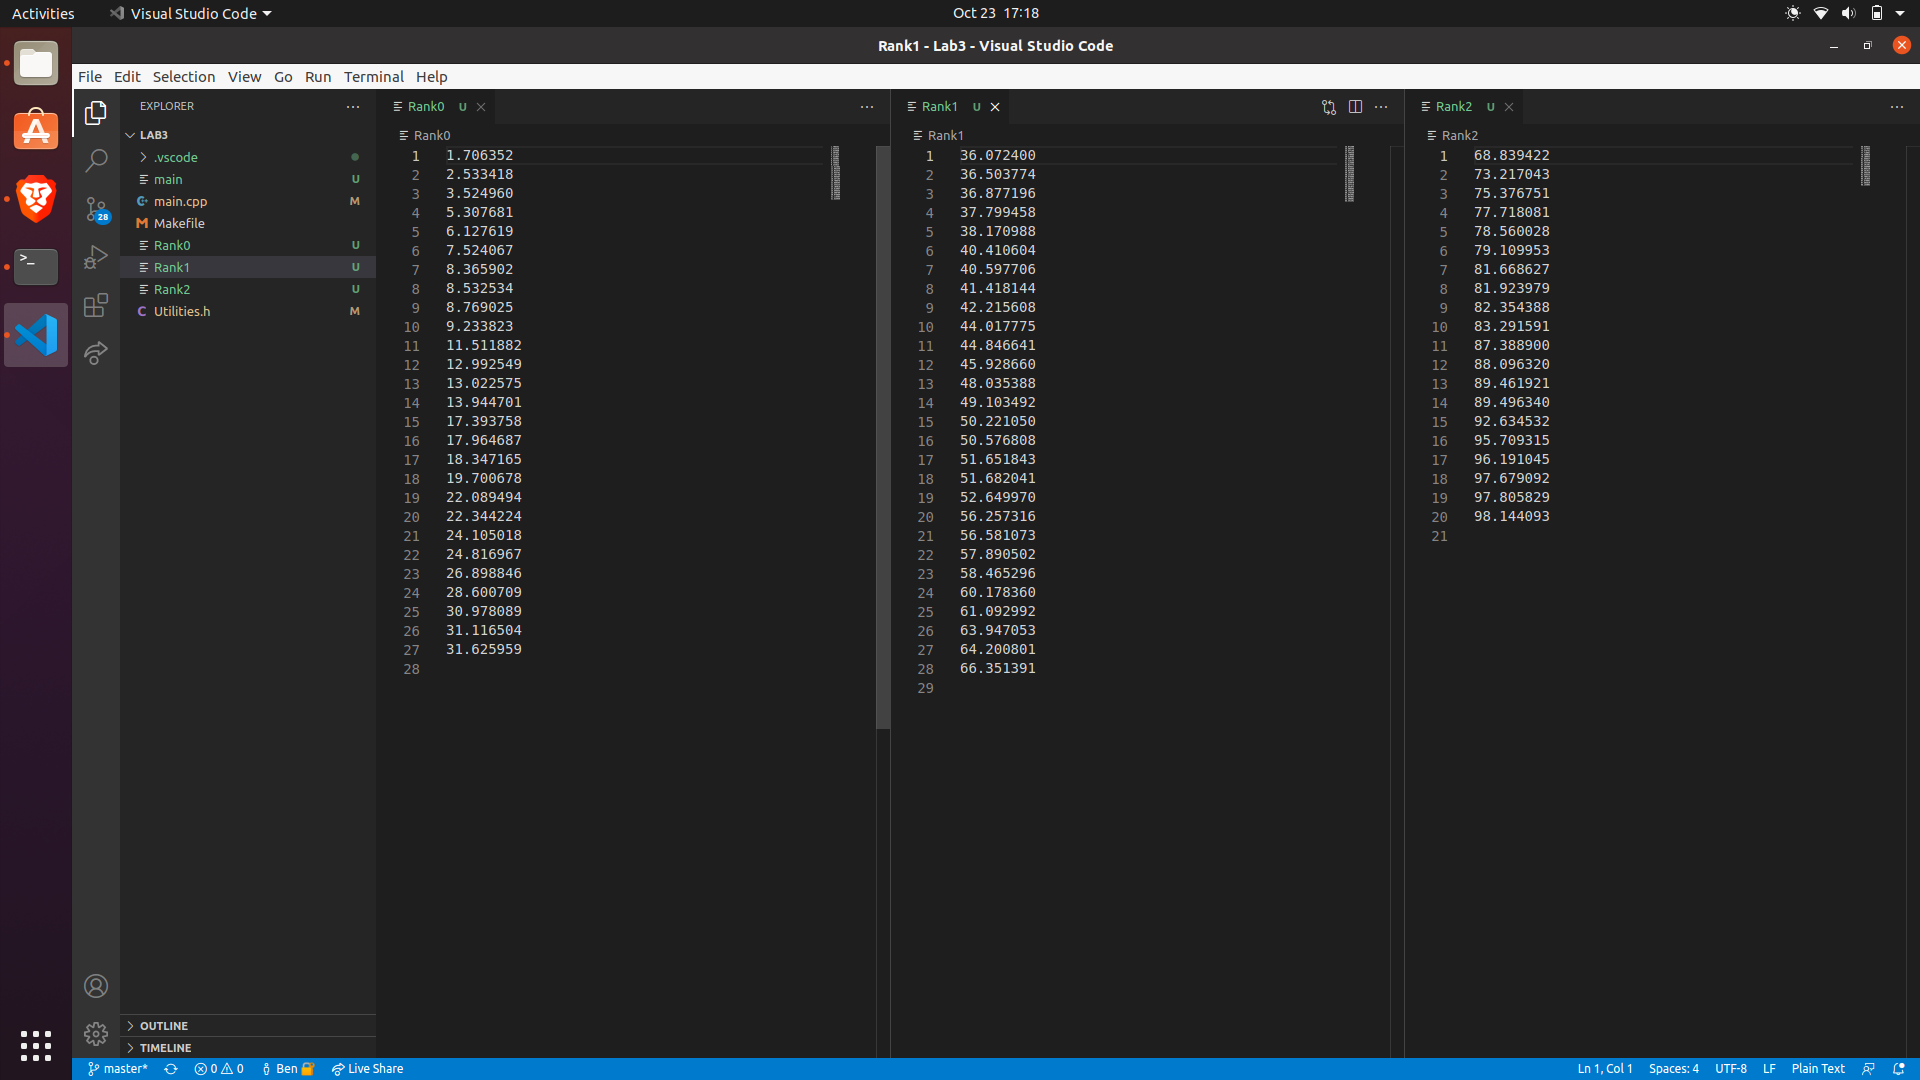
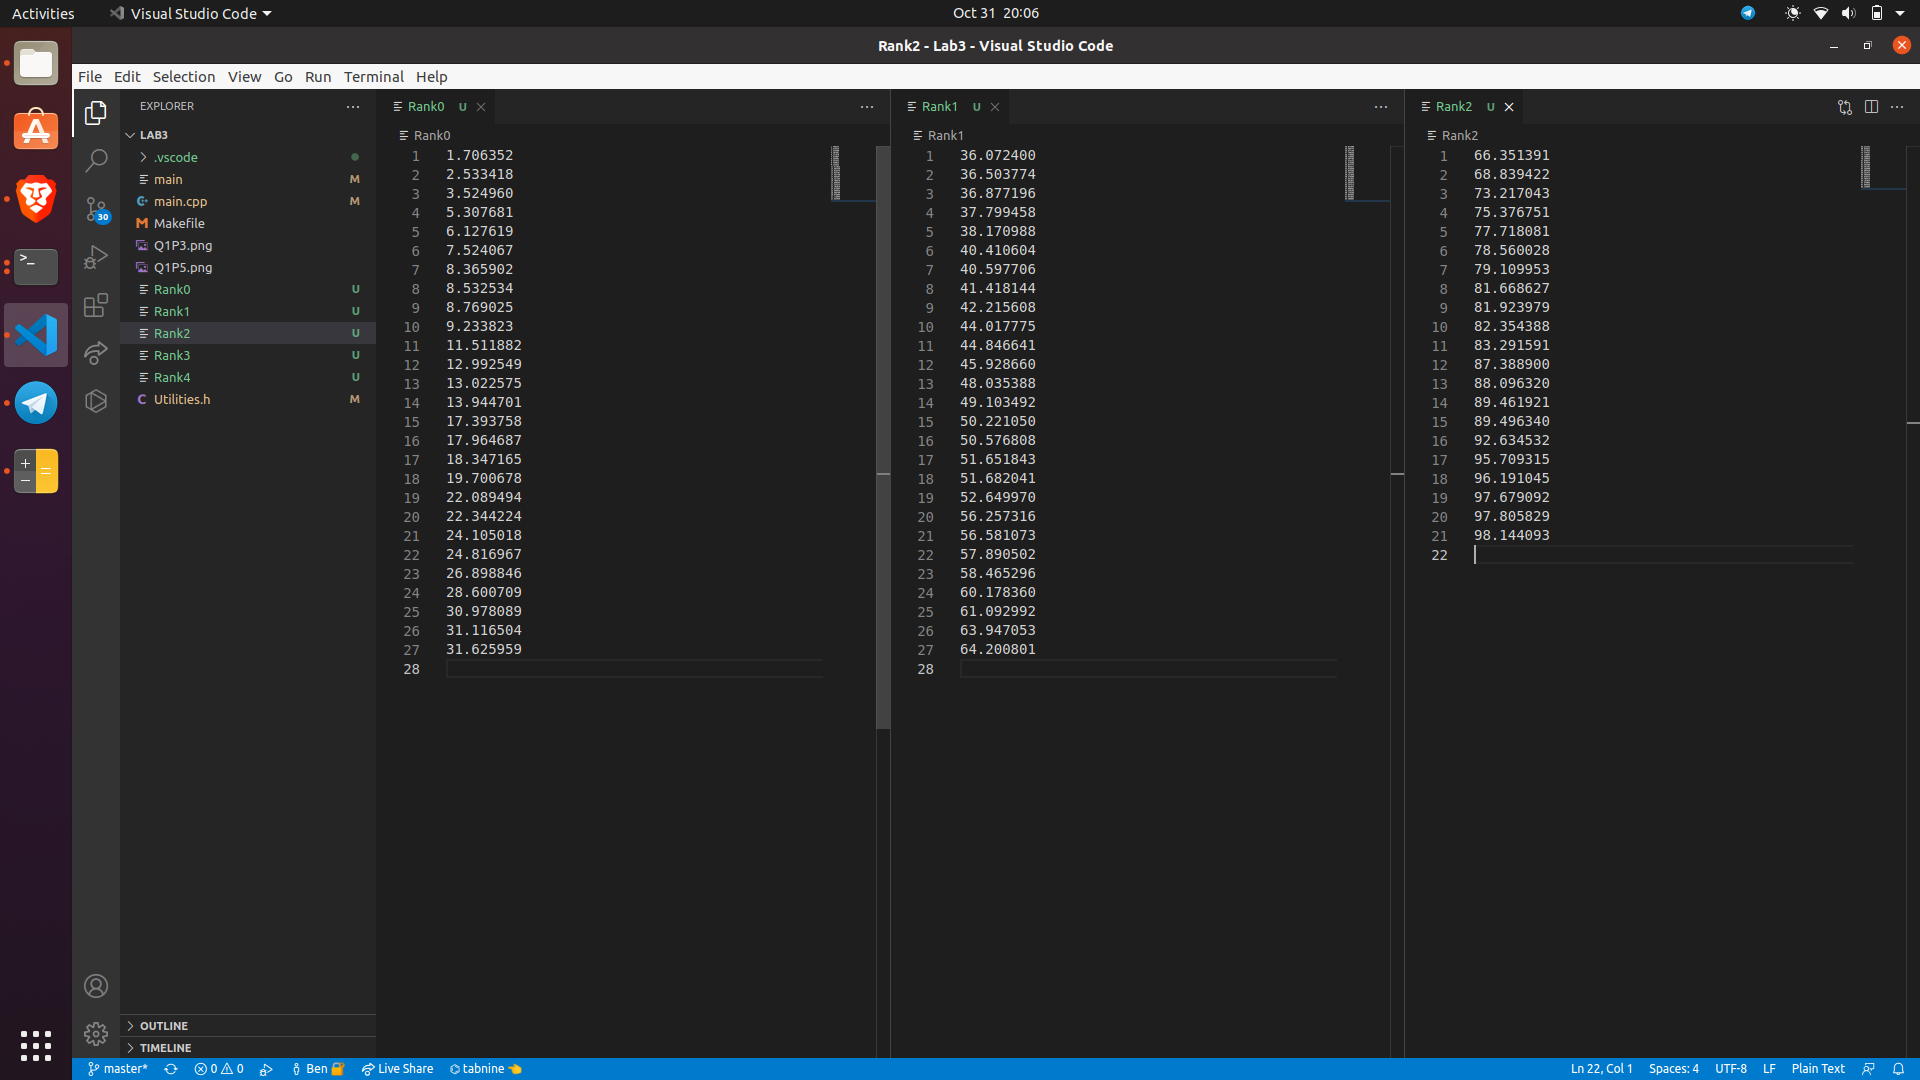
Fixed the boundaries that julian suggested

diff --git a/Lab3/main.cpp b/Lab3/main.cpp
@@ -16,20 +16,36 @@ void dumpVectorContents(string name, vector<double> vecToDump){
 }
 
 template<class T>
-vector<T> bucketSort(int a, int b, int rank, int p, vector<T> numsToSort){
+vector<T> bucketSort(double a, double b, int rank, int p, vector<T> numsToSort){
     vector<vector<T>> smallBuckets = vector<vector<T>>();
     vector<vector<T>> myBigBucket = vector<vector<T>>();
     for(int i = 0; i<p; i++){
         smallBuckets.push_back(vector<T>());
         
     }
+
     double delta = (b-a)/double(p);
     for(int i = 0; i<numsToSort.size(); i++){
         // the bucket to go into is
-        // floor(numsToSort[i] / delta)
-        smallBuckets[(int)floor(numsToSort[i]/delta)].push_back(numsToSort[i]);
-        
+        // i = (numberToSort-a)/delta
+        int index = (int)floor((numsToSort[i]-a)/delta);
+        if(numsToSort[i] == b){ // the math works out so that i equals p here which is out of bounds, so subtract 1
+            assert(index == p);
+            index--;
+        }
+        smallBuckets[index].push_back(numsToSort[i]);
+        /*
+        if((int)floor((-a+numsToSort[i])/delta)>=5){
+            cout<<numsToSort[i]<<" "<< delta << " " << a<<endl;
+            cout<<(-a+numsToSort[i])/(double)delta<<endl;
+            cout<<(int)floor((-a+numsToSort[i])/delta)<<endl;
+        }
+        //cout<<(int)floor((-a+numsToSort[i])/delta)<<endl;
+
+        smallBuckets[(int)floor((-a+numsToSort[i])/delta)].push_back(numsToSort[i]);
+        */
     }
+
     MPI_Alltoall_vecvecT(smallBuckets, myBigBucket);
 
     
@@ -130,7 +146,18 @@ int main(int argc, char** argv){
         
         randNums.push_back(randNum);
     }
-    vector<double> sortedList = bucketSort(a, b, rank, nproc, randNums);
+
+    // lets find the range of the data now
+
+    double localMax = *max_element(randNums.begin(), randNums.end());
+    double globalMax;
+    double localMin = *min_element(randNums.begin(), randNums.end());
+    double globalMin;
+    MPI_Allreduce(&localMax, &globalMax, 1, MPI_DOUBLE, MPI_MAX, MPI_COMM_WORLD);
+    MPI_Allreduce(&localMin, &globalMin, 1, MPI_DOUBLE, MPI_MIN, MPI_COMM_WORLD);
+
+
+    vector<double> sortedList = bucketSort(globalMin, globalMax, rank, nproc, randNums);
     dumpVectorContents("Rank" + to_string(rank), sortedList);
 
     if(rank == 0){

diff --git a/Lab3/Utilities.h b/Lab3/Utilities.h
@@ -30,11 +30,13 @@ void MPI_Alltoall_vecvecT(const std::vector<std::vector<T> >& data_to_send, std:
     
     assert(nproc == (int)data_to_send.size());
     
+    // allocate some space for some vectors well need
     std::vector<int> send_counts(nproc);
     std::vector<int> recv_counts(nproc);
     std::vector<int> send_displacements(nproc);
     std::vector<int> recv_displacements(nproc);
     
+    //compute how much to send and the displacement in bytes
     int total_send_count = 0; //in bytes
     for (unsigned int iproc = 0; iproc < nproc; iproc++)
     {
@@ -42,9 +44,10 @@ void MPI_Alltoall_vecvecT(const std::vector<std::vector<T> >& data_to_send, std:
         send_displacements[iproc] = total_send_count;
         total_send_count += send_counts[iproc];
     }
-    
+    // send each processor how much to expect from one another
     MPI_Alltoall(&send_counts[0],1,MPI_INT, &recv_counts[0], 1, MPI_INT, MPI_COMM_WORLD);
     
+    // compute the discplacements in bytes for how much data to receive
     int total_recv_count = 0;   //in bytes
     for (unsigned int iproc = 0; iproc < nproc; iproc++)
     {
@@ -55,10 +58,11 @@ void MPI_Alltoall_vecvecT(const std::vector<std::vector<T> >& data_to_send, std:
     assert(total_send_count%sizeof(T)==0);
     assert(total_recv_count%sizeof(T)==0);
     
+
     std::vector<T> sendbuf(total_send_count/sizeof(T));
     std::vector<T> recvbuf(total_recv_count/sizeof(T));
     
-    
+    // linearize data_to_send into one vector
     int count = 0;
     for (int i = 0; i < nproc; i++)
     {
@@ -69,11 +73,13 @@ void MPI_Alltoall_vecvecT(const std::vector<std::vector<T> >& data_to_send, std:
         }
     }
 
+    // do the variable send
     MPI_Alltoallv(&sendbuf[0],&send_counts[0],&send_displacements[0],MPI_BYTE,
 				  &recvbuf[0],&recv_counts[0],&recv_displacements[0],MPI_BYTE,
 				  MPI_COMM_WORLD);
     
     data_to_recv.resize(nproc);
+    // now actually put the received data into the vector of vectors
     count = 0;
     for (int i = 0; i < nproc; i++)
     {
